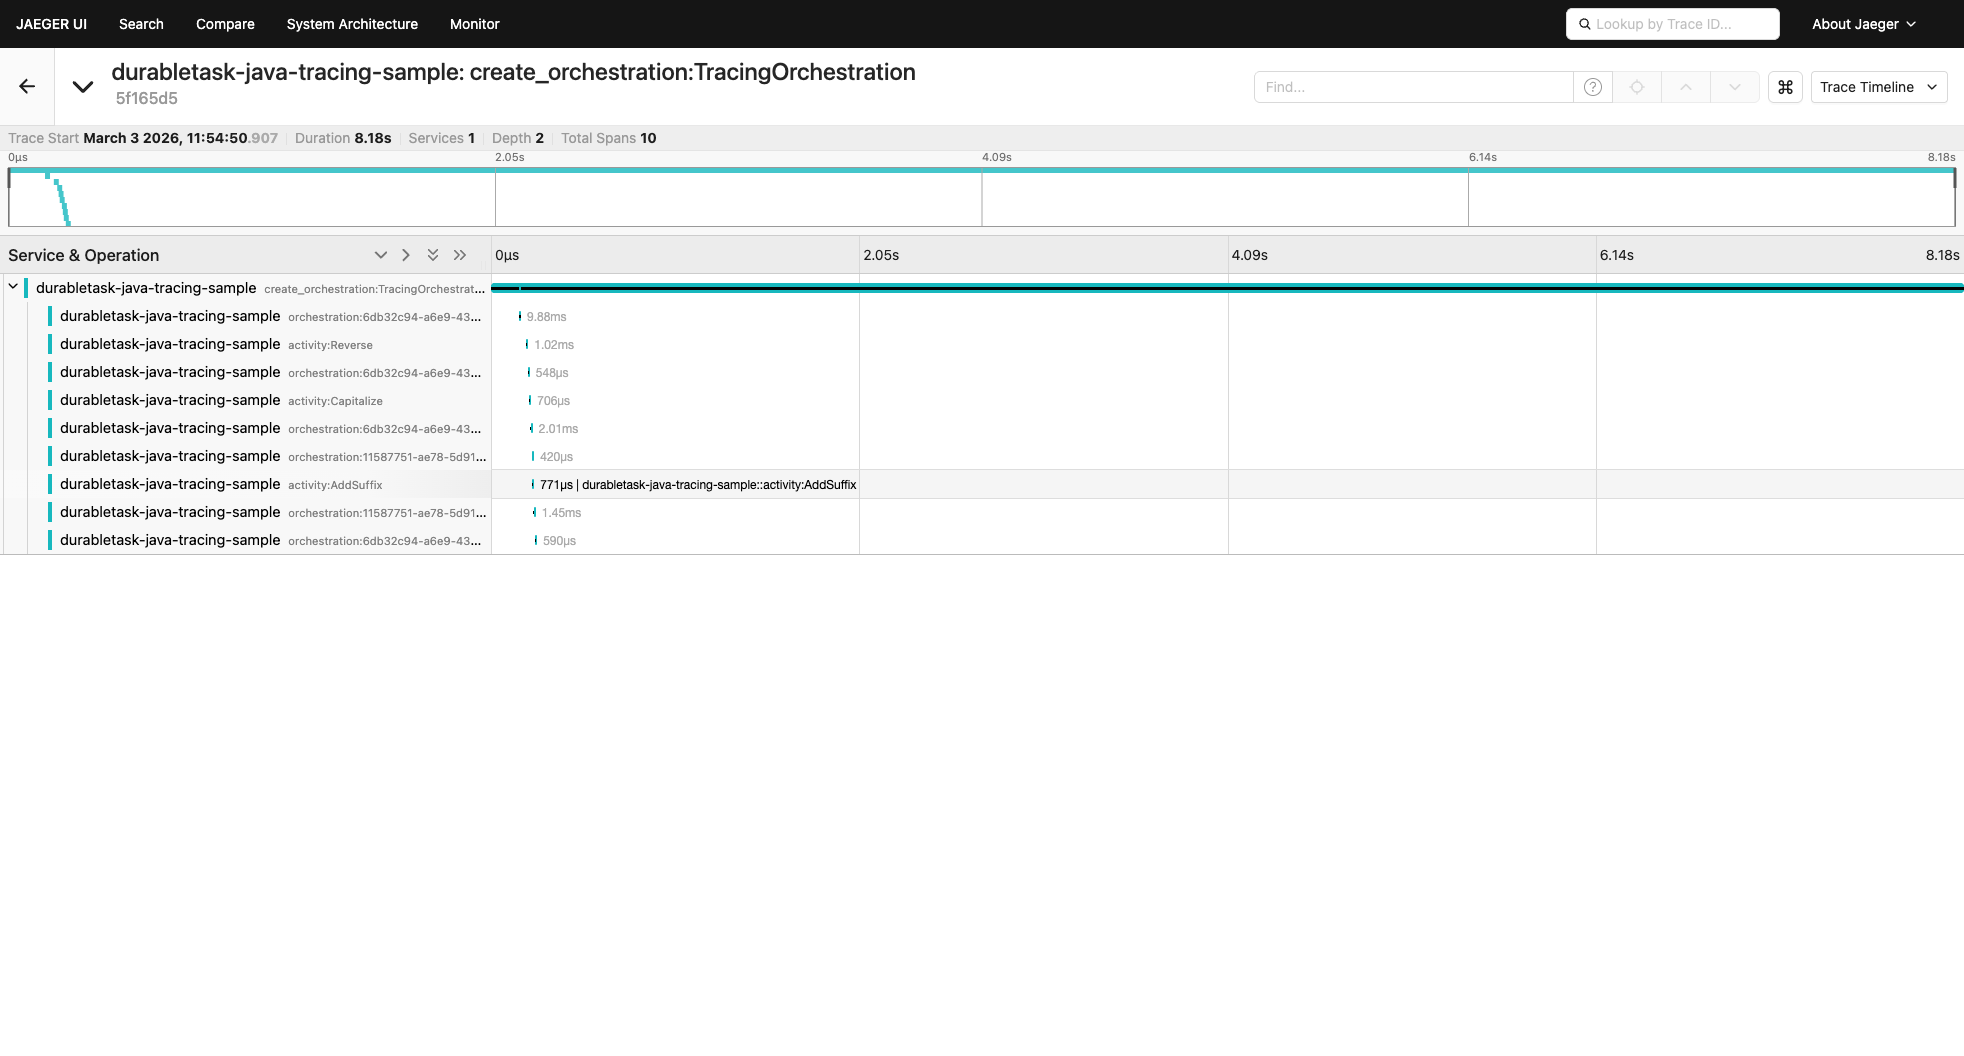
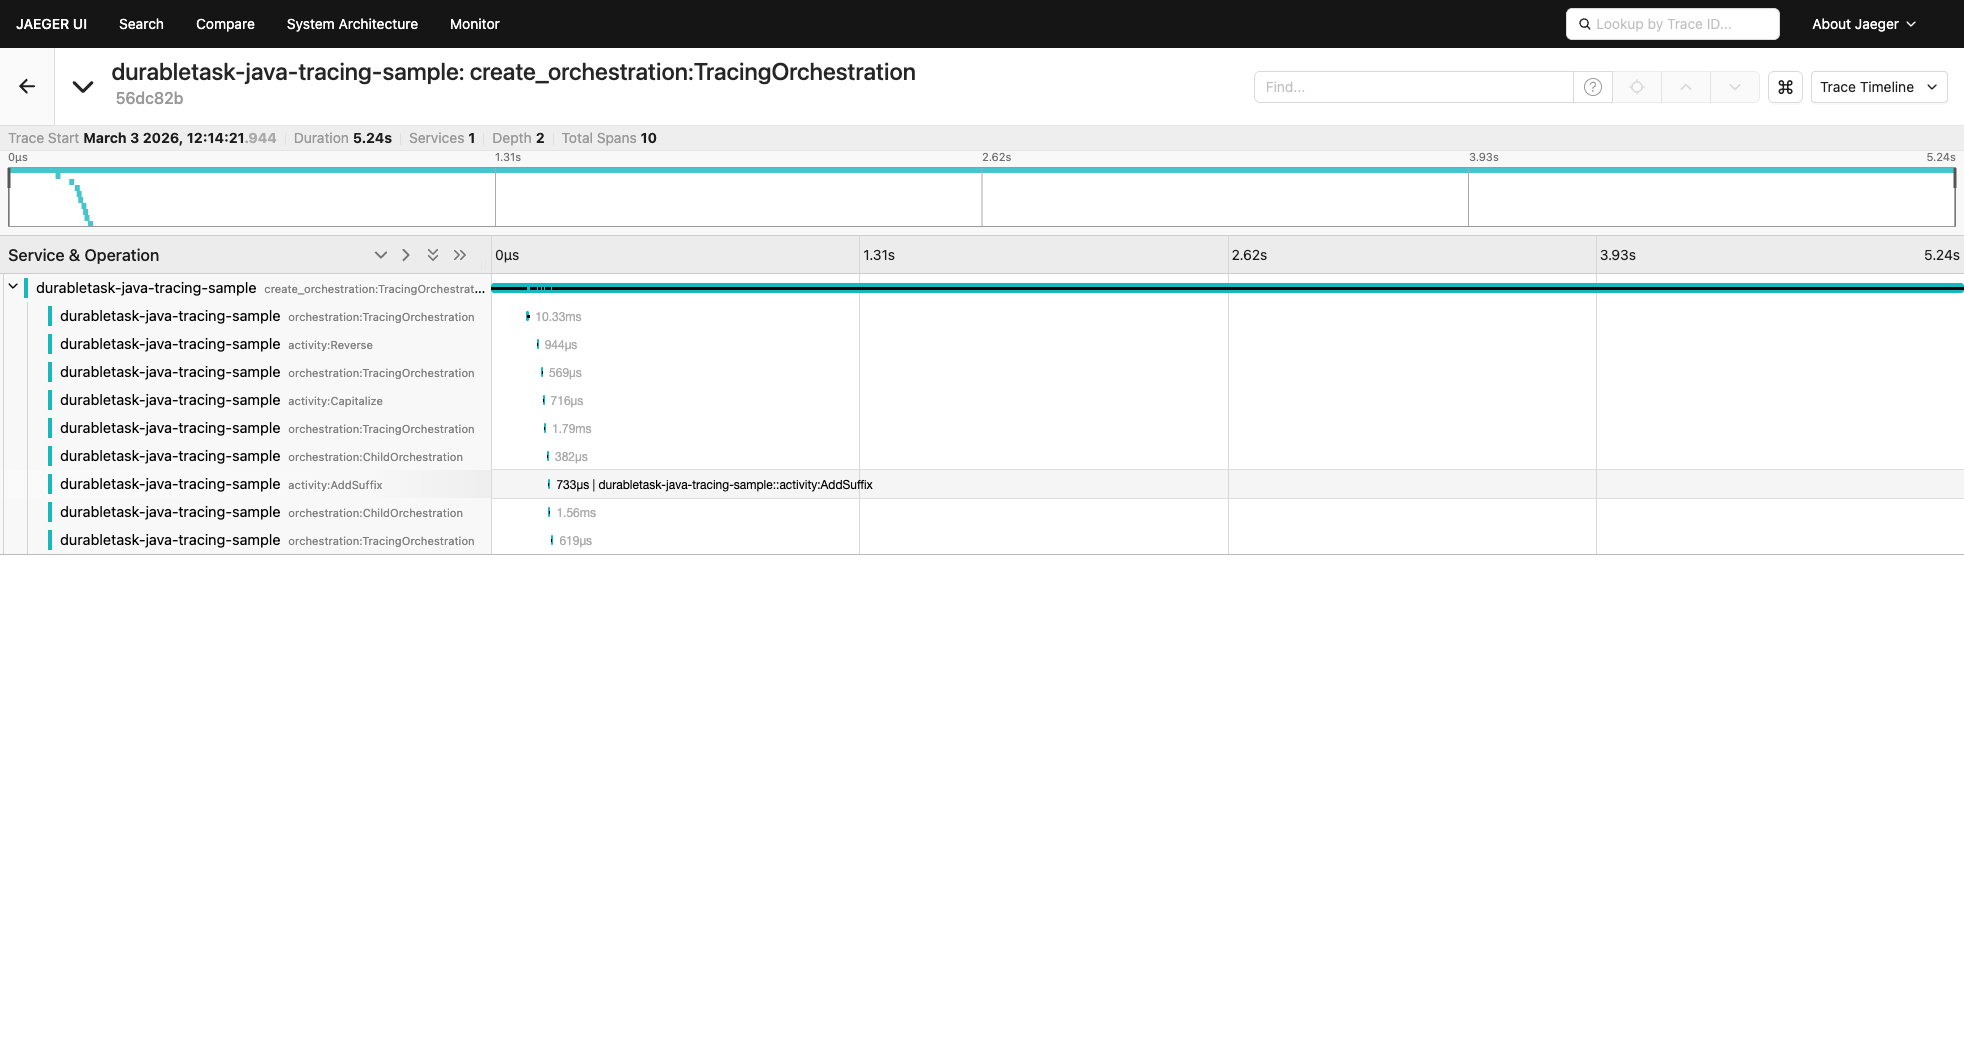
Update screenshots and README with .NET-aligned span attributes
Screenshots now reflect updated span naming (orchestration:<name>),
Server span kind, durabletask.type attribute, and
Microsoft.DurableTask tracer name. Added span detail screenshot
showing full attribute list.

diff --git a/samples/README.md b/samples/README.md
@@ -59,13 +59,25 @@ Shows the trace from `durabletask-java-tracing-sample` service with 10 spans cov
 
 Full span hierarchy showing parent-child relationships:
 - `create_orchestration:TracingOrchestration` (parent)
-  - `orchestration:<instanceId>` (orchestration replays)
+  - `orchestration:TracingOrchestration` (orchestration replays)
     - `activity:Reverse`
     - `activity:Capitalize`
-  - `orchestration:<childInstanceId>` (ChildOrchestration)
+  - `orchestration:ChildOrchestration` (sub-orchestration)
     - `activity:AddSuffix`
 
 ![Jaeger trace detail](images/jaeger-full-trace-detail.png)
+
+### Jaeger — Span Attributes
+
+Activity span showing attributes aligned with the .NET SDK schema:
+- `durabletask.type=activity`
+- `durabletask.task.name=Reverse`
+- `durabletask.task.instance_id=<orchestrationId>`
+- `durabletask.task.task_id=0`
+- `otel.scope.name=Microsoft.DurableTask`
+- `span.kind=server`
+
+![Jaeger span detail](images/jaeger-span-detail.png)
 
 ### DTS Dashboard — Completed Orchestrations
 
